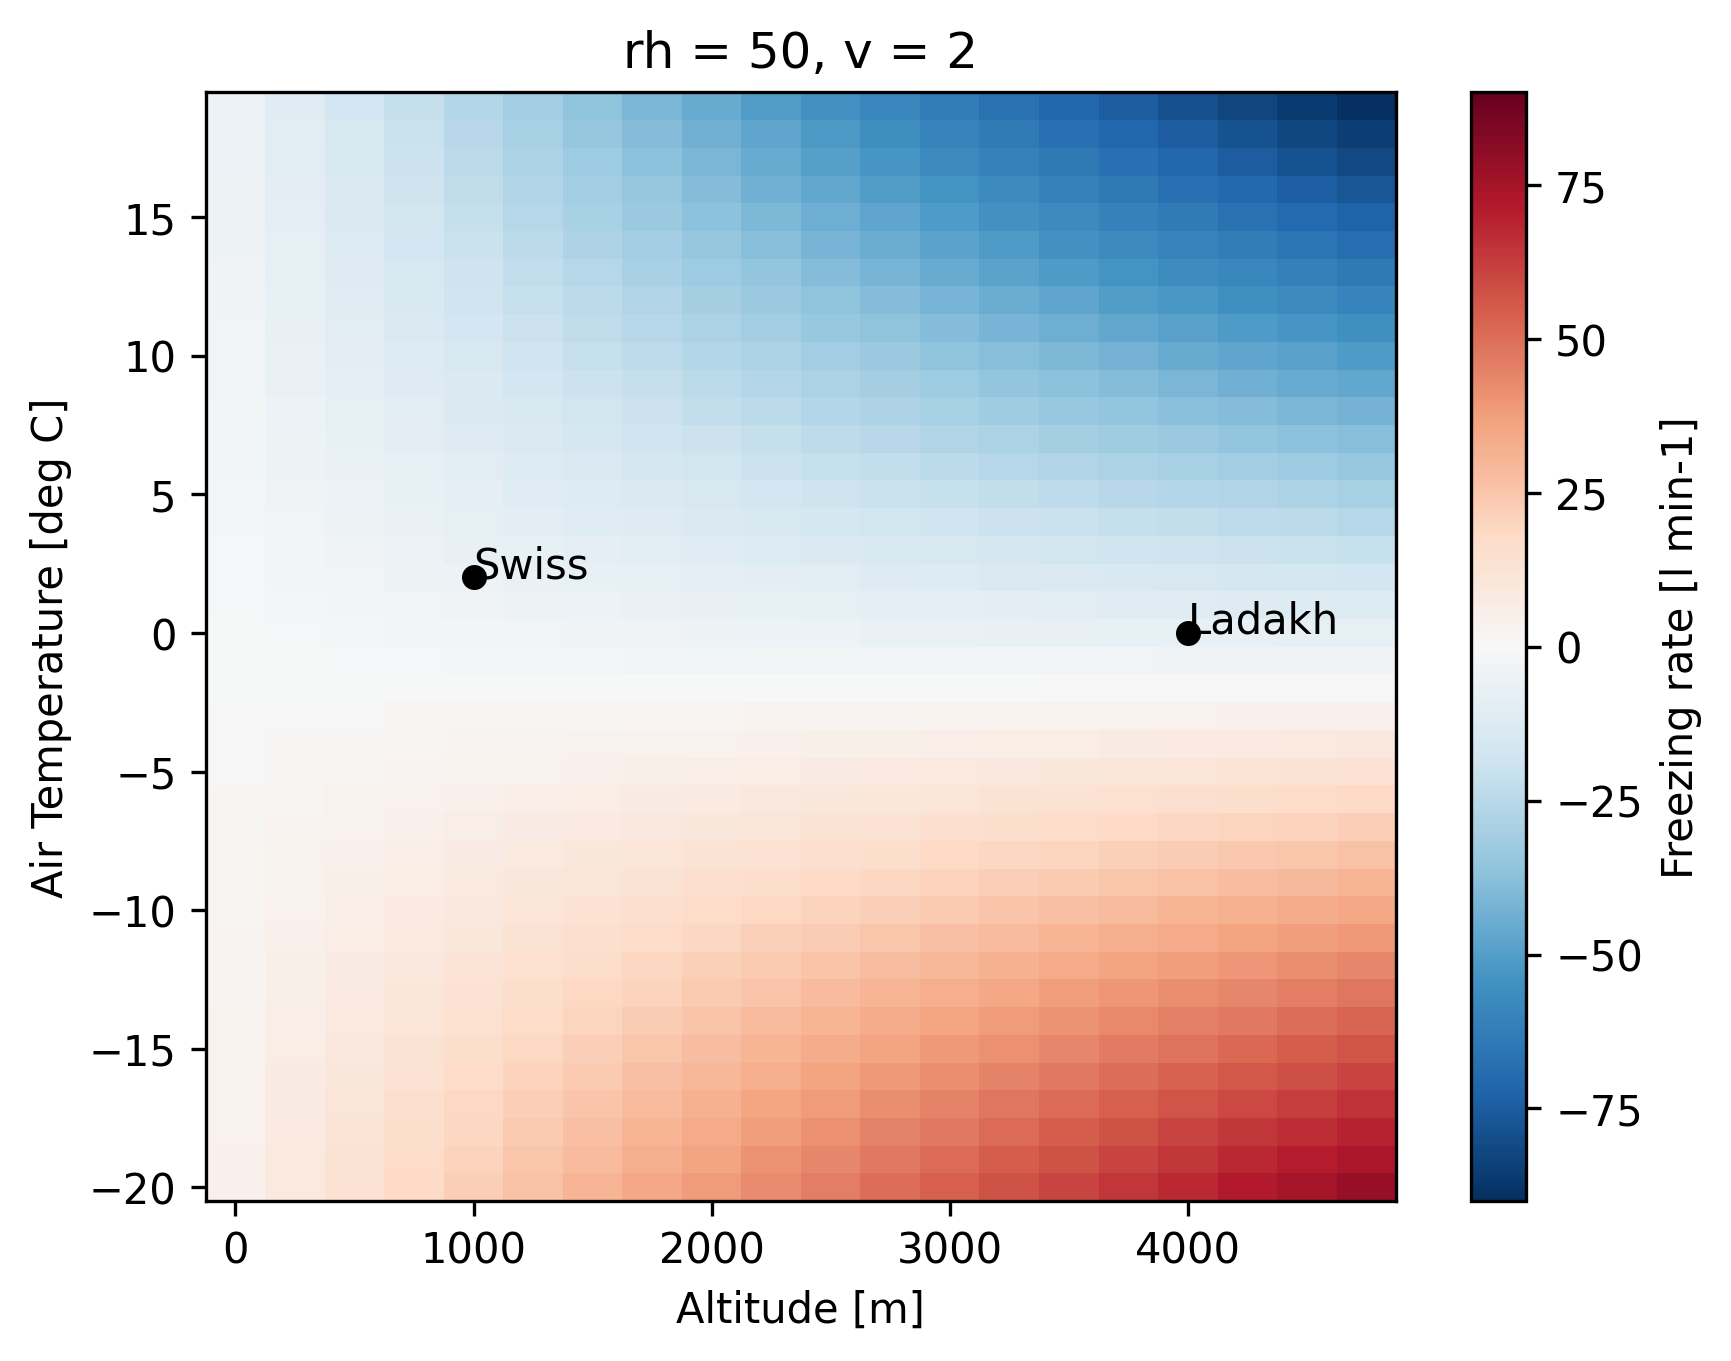
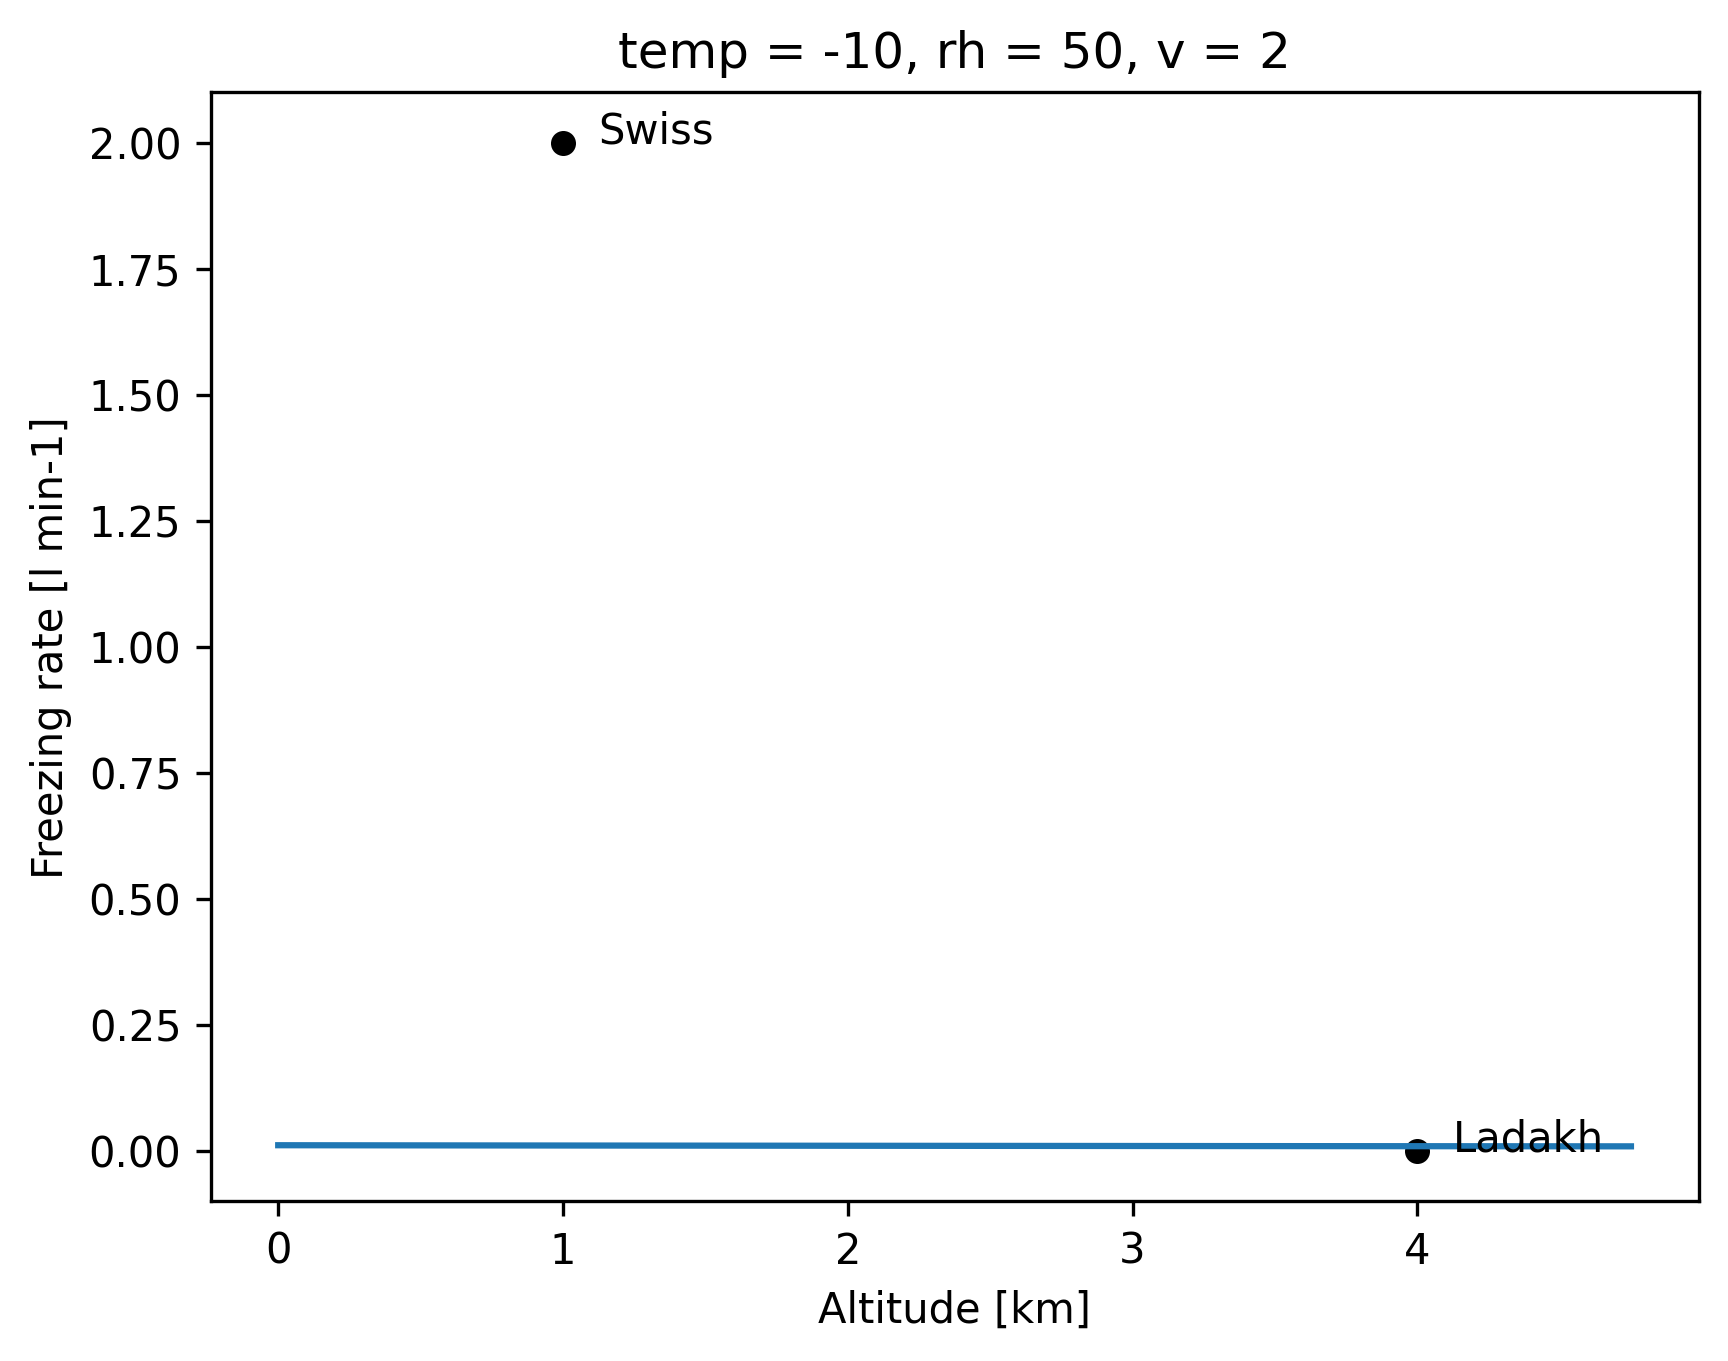
update auto eqns

diff --git a/src/plots/coeff_slopes.py b/src/plots/coeff_slopes.py
@@ -36,15 +36,12 @@ if __name__ == "__main__":
     logger.setLevel("INFO")
 
     opts = [opt for opt in sys.argv[1:] if opt.startswith("-")]
-    opts = ["-c"]
+    # opts = ["-c"]
+    opts = ["-png"]
 
-    if "-c" in opts:
+    if "-nc" in opts:
 
-        # temp = list(range(-20, 20,10))
-        # rh = list(range(0, 100, 50))
-        # v = list(range(0, 20, 10))
-        # alt = list(range(0, 5000, 1000))
-
+        logger.info("=> Calculation of coeffs")
         temp = list(range(-20, 20))
         rh = list(range(0, 100, 5))
         v = list(range(0, 15, 1))
@@ -89,7 +86,7 @@ if __name__ == "__main__":
 
         da.to_netcdf("data/common/alt_sims.nc")
 
-    else:
+    if "-json" in opts:
         logger.info("=> Skipping calculation of coeffs")
         da = xr.open_dataarray("data/common/alt_sims.nc")
         x = []
@@ -109,34 +106,31 @@ if __name__ == "__main__":
         """Combine all coeffs"""
         param_values = {}
 
-        with open("data/common/alt_coeffs.nc", "w") as f:
+        with open("data/common/alt_coeffs.json", "w") as f:
             json.dump(param_values, f)
 
         print(
             "Max freezing rate:",
-            autoDis(**param_values, time=6, temp=-20, rh=0, v=10),
+            autoDis(**param_values, time=6, temp=-20, rh=0, v=10, alt=1000),
         )
 
+    if "-png" in opts:
 
-    # else:
-    #     df = pd.read_csv("data/common/alt_cld_dependence.csv")
-    #     da = xr.open_dataarray("data/common/alt_sims.nc")
+        da = xr.open_dataarray("data/common/alt_sims.nc")
+        df_l = pd.DataFrame(dict(x=[4,1], y=[0, 2], text=['Ladakh', 'Swiss']))
+        a = pd.concat({'x': df_l.x, 'y': df_l.y, 'text': df_l.text}, axis=1)
+        print(da)
 
-    #     df_l = pd.DataFrame(dict(x=[4000,1000], y=[0, 2], text=['Ladakh', 'Swiss']))
-
-
-    #     a = pd.concat({'x': df_l.x, 'y': df_l.y, 'text': df_l.text}, axis=1)
-
-    #     fig, ax = plt.subplots(1, 1)
-    #     ax = df_l.set_index('x')['y'].plot(style='.', color='k', ms=10)
-    #     for i, point in a.iterrows():
-    #         print(i,point)
-    #         ax.text(point['x']+0.125, point['y'], str(point['text']))
-    #     da.sel(rh=50, v=2).plot()
-    #     # ax.legend(title = "Altitude")
-    #     # ax.set_ylabel("Night freezing with 5m spray radius [$l/min$]")
-    #     # ax.set_xlabel("Air Temperature [$C$]")
-    #     plt.savefig("data/figs/paper3/alt_temp.png", bbox_inches="tight", dpi=300)
+        fig, ax = plt.subplots(1, 1)
+        ax = df_l.set_index('x')['y'].plot(style='.', color='k', ms=10)
+        for i, point in a.iterrows():
+            print(i,point)
+            ax.text(point['x']+0.125, point['y'], str(point['text']))
+        da.sel(rh=50, v=2, temp=-10).plot()
+        # ax.legend(title = "Altitude")
+        # ax.set_ylabel("Night freezing with 5m spray radius [$l/min$]")
+        # ax.set_xlabel("Air Temperature [$C$]")
+        plt.savefig("data/figs/paper3/alt_temp.png", bbox_inches="tight", dpi=300)
     #     # x_vals = list(range(-10, 10))
     #     # df = df.round(4)
     #     # print(df.tail())

diff --git a/src/automate/autoDischarge.py b/src/automate/autoDischarge.py
@@ -17,6 +17,7 @@ from src.utils.settings import config
 # from src.automate.projectile import get_projectile
 
 def TempFreeze(temp,rh,wind,alt):
+    print(temp,rh,wind,alt)
 
     with open("data/common/auto.json") as f:
         params = json.load(f)
@@ -41,6 +42,7 @@ def TempFreeze(temp,rh,wind,alt):
 
     # Derived
     press = atmosphere.alt2pres(alt) / 100
+    print(press)
 
     Qs = (
         CONSTANTS["C_A"]
@@ -67,14 +69,12 @@ def TempFreeze(temp,rh,wind,alt):
 
     dis = -1 * (Ql / CONSTANTS["L_V"] + (Qs+LW) / CONSTANTS["L_F"]) * 1000 / 60
 
-    # SA = math.pi * math.pow(params['spray_r'],2)
-    # dis *= SA
+    SA = math.pi * math.pow(params['spray_r'],2)
+    dis *= SA
 
     return dis
 
 def SunMelt(coords, utc, alt):
-
-    # CONSTANTS, SITE, FOLDER = config(loc)
 
     with open("data/common/auto.json") as f:
         params = json.load(f)
@@ -87,9 +87,6 @@ def SunMelt(coords, utc, alt):
         freq="H",
         periods=1 * 24,
     )
-
-    # Derived
-    # utc = get_offset(*SITE["coords"], date=SITE["start_date"])
 
     times -= pd.Timedelta(hours=utc)
     loc = location.Location(
@@ -146,16 +143,17 @@ if __name__ == "__main__":
     # }
 
     loc="guttannen21"
-    SITE, FOLDER = config(loc)
-    utc = get_offset(*SITE["coords"], date=SITE["start_date"])
-    cld, result = SunMelt(coords = SITE["coords"], utc = utc, alt=SITE["alt"])
-    param_values = dict(result.best_values)
+    # SITE, FOLDER = config(loc)
+    # utc = get_offset(*SITE["coords"], date=SITE["start_date"])
+    # result = SunMelt(coords = SITE["coords"], utc = utc, alt=SITE["alt"])
+    # param_values = dict(result.best_values)
 
 
-    aws = [-5,10,2]
-    alt = 1000
-    print(TempFreeze(aws, cld, alt))
-    print(param_values)
+    aws1 = [-5,10,2,4000]
+    aws2 = [-5,10,2,0]
+    print(TempFreeze(*aws1))
+    print(TempFreeze(*aws2))
+    # print(param_values)
     # locations = ["gangles21", "guttannen21"]
     # for loc in locations:
     #     result = SunMelt(loc)
